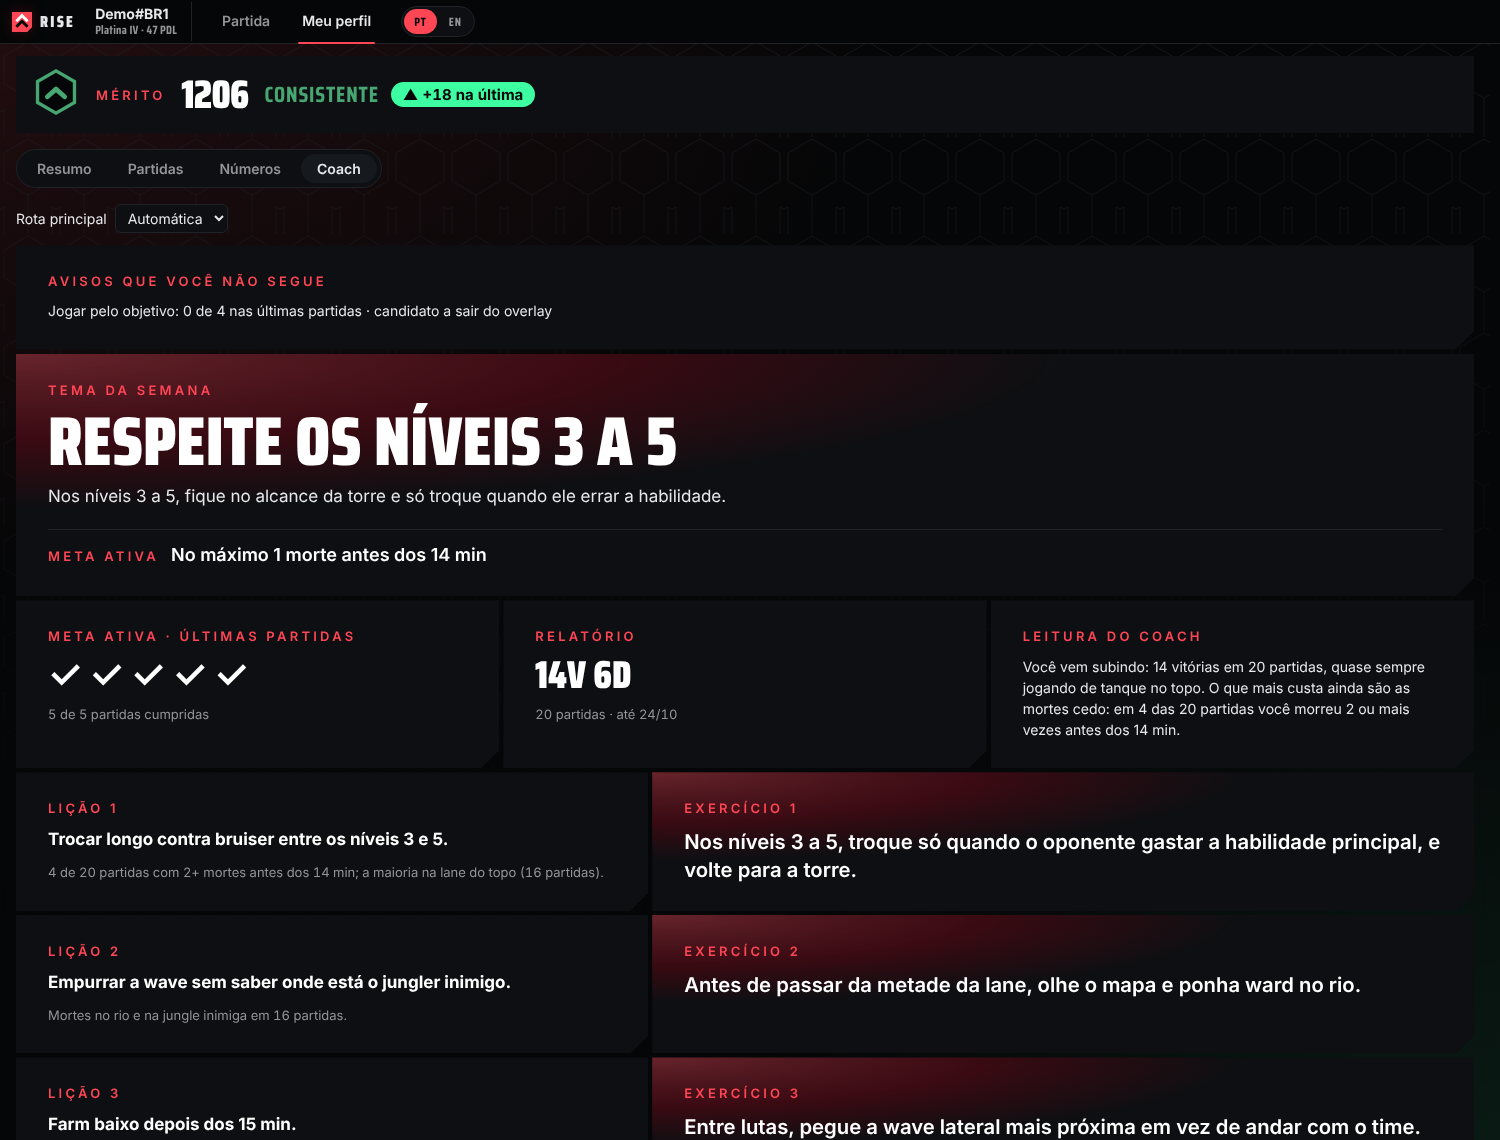
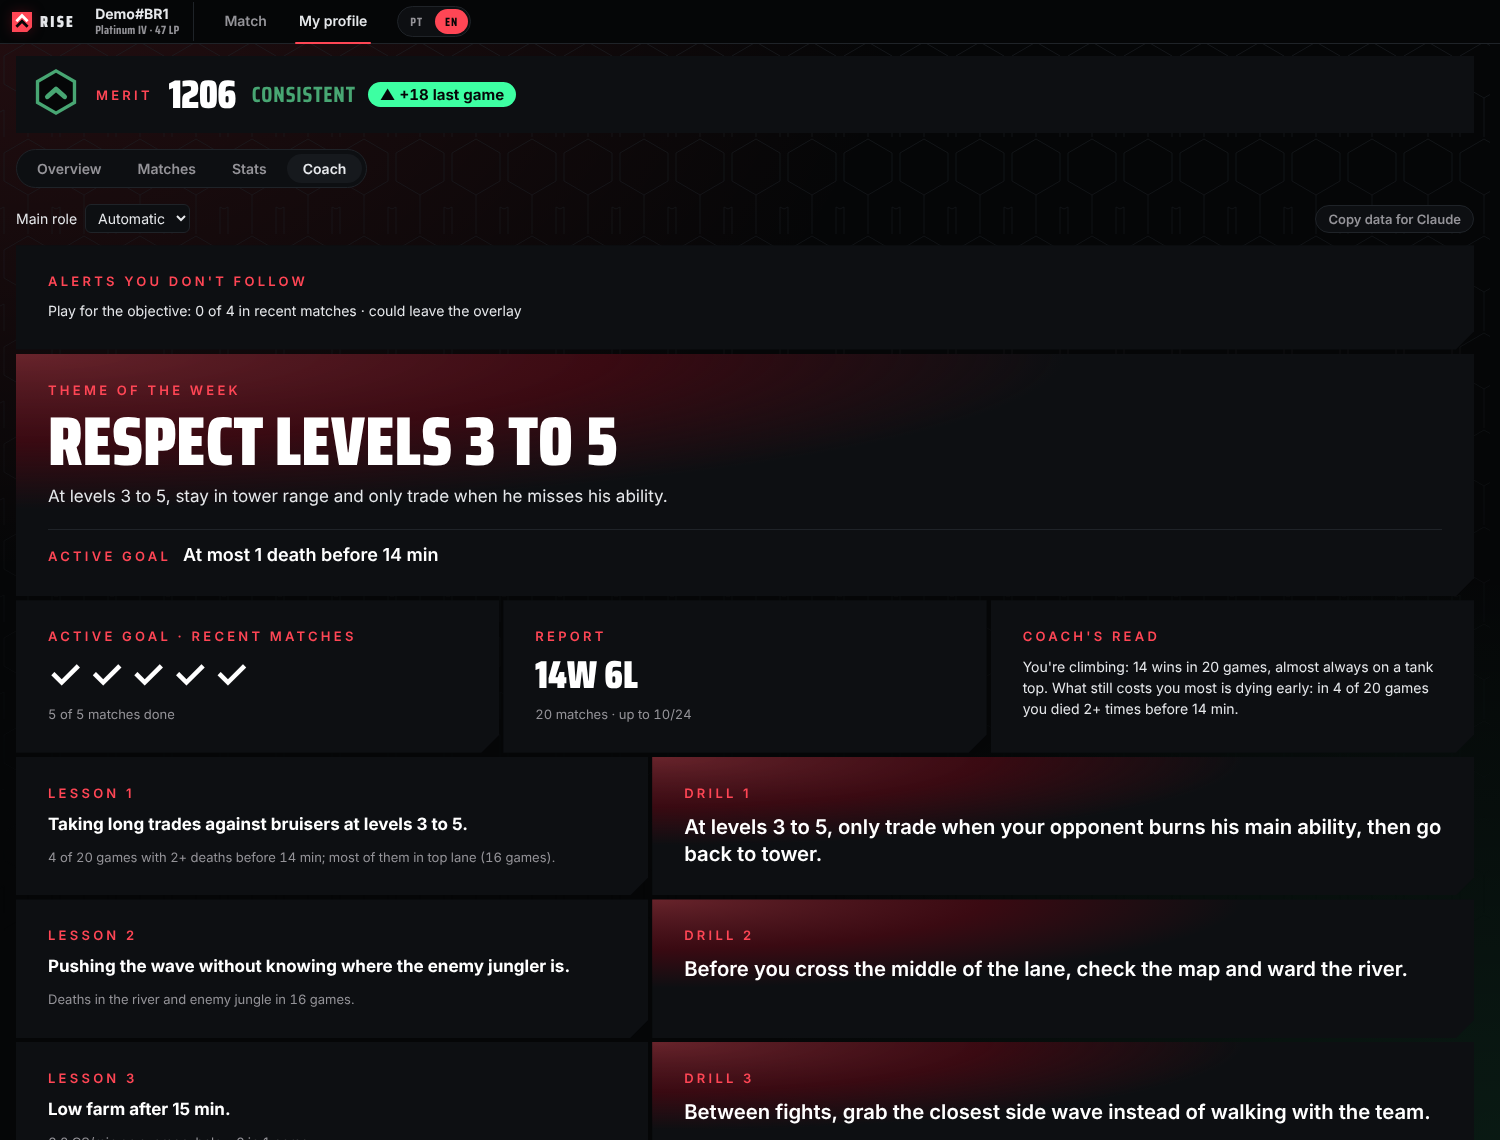
Prints em inglês (#2)
Claude-Session: https://claude.ai/code/session_01A9kCdaGhy6rGBCzv5NSGdF

diff --git a/index.html b/index.html
@@ -108,7 +108,7 @@
     <figure><img src="img/perfil.png" alt="Profile with Mérito, its personal level, recent grades and achievements" width="1500" height="1140" loading="lazy"><figcaption><b>Profile</b>Mérito, recent grades, records and achievements.</figcaption></figure>
     <figure><img src="img/coach.png" alt="Coach with the theme of the week, lessons and exercises" width="1500" height="1140" loading="lazy"><figcaption><b>Coach</b>The theme of the week, from the player’s own games.</figcaption></figure>
   </div>
-  <p class="notice">Screenshots use a fictional demo account (Demo#BR1), with the app in Portuguese. Rise is available in Portuguese (Brazil) and English: the PT | EN switch at the top changes the app and the coach texts.</p>
+  <p class="notice">Screenshots use a fictional demo account (Demo#BR1), with the app in English. Rise is available in Portuguese (Brazil) and English: the PT | EN switch at the top changes the app and the coach texts.</p>
 </section>
 
 <section>
